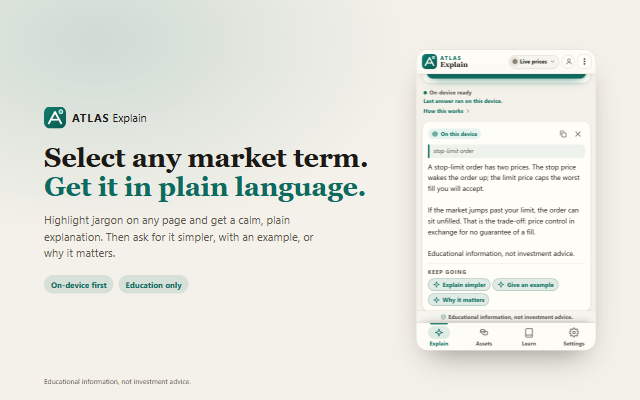
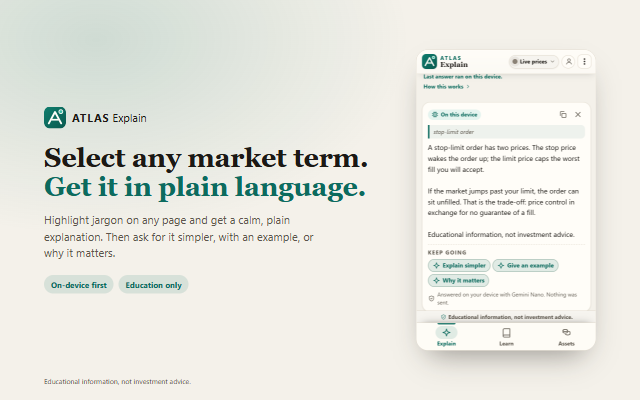
docs: redo the store images, popup shots and demo script for the new layout
The store listing images (store/*.png) and the popup and side-panel
shots (public/shots, store/src/shots) are regenerated from the current
build: three tabs, the shared Explain panel, live prices with their
source. DEMO.md now follows the public product (web app on one page,
three-tab extension) with the private ATLAS desk as an optional
segment, and says the web app tries Gemini Nano first too. SUBMISSION.md
names the one back end and one Explain panel.

The README stills in docs/screenshots still predate the new layout and
are marked as such in DEMO.md.

diff --git a/docs/DEMO.md b/docs/DEMO.md
@@ -2,7 +2,7 @@
 
 About three minutes. A real on-device recording has to be made on the presenter's laptop in Chrome (139 or newer) with Gemini Nano available. This repository can script the shots and host the app; it cannot produce the Nano badge from a cloud or remote session.
 
-Every screen below is in the shipped build. Nothing is mocked. Education only: never say buy, sell, or "signal to trade."
+Every screen below is in the shipped build (last checked against it on 15 Nov 2026). Nothing is mocked. Education only: never say buy, sell, or "signal to trade."
 
 ## Why this has to be recorded on the laptop
 
@@ -22,9 +22,9 @@ If Nano is missing, the badge will honestly say **Cloud**. Do not edit the badge
    - If the result is `unavailable`, stop and fix Chrome; do not record the on-device segment.
 2. `npm run build:extension`, then load `extension/dist` unpacked in `chrome://extensions` (Developer mode).
 3. Open the welcome page: https://atlas-explain.web.app/welcome (it also opens by itself on first install; static practice text, no prices, no account).
-4. For the desk segment: start the private ATLAS desk at `http://localhost:3000/markets` with the usual deploy script. Without it, skip shots 1-3 and use the deep-link fallback in shot 1b.
-5. For the "ATLAS connected" header: either use the loaded extension on a loopback page, or open a local Explain preview at `http://localhost:4173/` (not `127.0.0.1`, if the preview bound only to localhost). Dismiss any first-run onboarding (`.ob-skip`) so the header pill is visible.
-6. For the hosted header: open https://atlas-explain.web.app in a clean tab. The pill reads "Live prices"; the web app never calls localhost, and the ATLAS-only parts are hidden.
+4. Optional, for the desk segment only: start the private ATLAS desk at `http://localhost:3000/markets` with the usual deploy script. Without it, skip shots A1 to A3.
+5. For the "ATLAS connected" header (desk segment only): use the loaded extension on a loopback page, or open a local preview at `http://localhost:4173/app` (not `127.0.0.1`, if the preview bound only to localhost). Dismiss the first-run steps (the **Skip** button) so the header pill is visible.
+6. For the hosted header: open https://atlas-explain.web.app/app in a clean tab and dismiss the first-run steps. The pill reads "Live prices"; the web app never calls localhost, and the ATLAS-only parts are hidden. If a cloud answer says the security check could not confirm this browser, reload once; App Check blocks automated browsers, so record in your normal Chrome.
 7. Close password managers, email, vault windows, and any ATLAS panel that could show balances, keys, or account numbers.
 8. Turn off the App Check debug token overlay if it is visible. Do not show `.env`, DevTools with secrets, or Credential Manager.
 
@@ -37,35 +37,44 @@ Keyboard shortcuts in the shipped extension (see `extension/manifest.json`):
 
 Times are a guide. Keep the total near three minutes. If a shot fails, retake that shot; do not leave a wrong header or a cloud badge in the on-device segment.
 
+The story is the public product: one web page and a three-tab extension, both explaining on the device first and in the cloud only when they must. The private ATLAS desk is an optional extra (shots A1 to A3 below); the demo works without it.
+
 | Shot | Time | Where | Do | Must be visible | Say |
 | --- | --- | --- | --- | --- | --- |
-| 1 | 0:00-0:10 | `http://localhost:3000/markets` | Select one market (for example BTCUSDT). | Markets desk, paper-only chrome, no account balances. | "ATLAS is my private paper-only research desk. It never places orders." |
-| 2 | 0:10-0:22 | Same tab | Click **Explain this move** on the quote bar (or an Explain chip on a chart layer or Signal15 row). | A new tab or wallet opening `atlas-explain.web.app` with a public card. | "The desk sends a public move card only: symbol, percent move, volume. No balances, no account, no positions." |
-| 3 | 0:22-0:28 | Explain wallet | Show the card loaded, model not yet run. Point at the **On-device ⇄ Cloud** strip. | Header pill, the strip reading **Gemini Nano ready**, card fields, **Explain the move** still idle. | "Before anything is sent, the strip shows Gemini Nano is ready on this device. Loading a card never runs the model by itself. I click." |
-| 4 | 0:28-0:50 | Same wallet | Click **Explain the move**. Wait for the answer. | Badge **On-device / Gemini Nano** from `inferenceSource`. If it says Cloud, stop and retake after Nano is ready. | "Firebase AI Logic tries Gemini Nano on this device first, and Gemini in the cloud only if Nano is not ready. The badge is the SDK's own inferenceSource." |
-| 5 | 0:50-1:10 | Scroll the answer | Point at three reasons on each side and "what would change." | Both-sided reasons, no trade instruction. | "Two sides on purpose: why some readers see a dip worth studying, why others see more risk. Never an instruction." |
-| 1b | (fallback) | `https://atlas-explain.web.app/#concept=shadow` or a sample card | Use this only if the desk cannot be shown. | Glossary or sample card, **Live prices** pill on the hosted origin. | "Without the desk, a deep link or a sample card loads the same public envelope." |
-| 6 | 1:10-1:18 | Practice page | Highlight "RSI(14) crossed above 70 while price tagged the upper Bollinger Band". | Practice page only; no prices, no account. | "Now any trading or charting page. I highlight one sentence." |
-| 7 | 1:18-1:28 | Same page | Right-click -> **Explain with ATLAS Explain**, or press `Alt+Shift+X`. | Popup or wallet, source labeled from the site name. | "Only the highlighted text, the title, and the site name leave the page. The account panel next to it is never read." |
-| 8 | 1:28-1:45 | Wallet answer | Let the answer finish, then tap **Explain simpler** under **Keep going**. | Badge, "Charting site" (or equivalent) source line, the follow-up chips and any **Related** glossary chips. | "The card says where it came from and which model answered. One tap asks for a simpler version, still on the device." |
-| 9 | 1:45-1:58 | Practice page | Highlight "Stop-limit order" in the ticket help, explain again. | Same flow on a broker-style term, still no account fields. | "Same flow on a broker-style term." |
-| 10 | 1:58-2:08 | Explain tab -> **Recent** | Open a previous item. | Recent list, no network spinner for the reopen. | "Recent explanations stay on this device. Tapping one reopens it without another model call." |
-| 11 | 2:08-2:20 | Glossary -> **Learn path** -> **Got it** | Advance one step. | Glossary copy, progress on device. | "A short path through every term, progress kept on the device." |
-| 12 | 2:20-2:32 | Hosted app tab | Show the header pill. | Pill text **Live prices**. | "The hosted web app never calls localhost. That is an honest header, not a failed connection." |
-| 13 | 2:32-2:45 | Extension or local preview with ATLAS running | Show the header pill after a real probe. | Pill text **ATLAS connected** (or **ATLAS desk** if this tab is Markets). | "On this computer, the connectors library talks to ATLAS over public MCP, with a REST fallback, and the header says ATLAS local only when a probe answers." |
-| 14 | 2:45-2:52 | Signal tab | Open **Why this colour?** | Grey light unless a model has cleared the evidence gate. Today that is usually grey. | "The light stays grey until a model clears the evidence gate. Grey is the honest answer." |
-| 15 | 2:52-3:00 | Menu → Settings, and the disclaimer | Open the menu (top right), choose Settings, and show the plan card and the footer line. | "Free during the hackathon. Billing is built in and switched off." Educational disclaimer visible. | "Educational information, not investment advice." |
+| 1 | 0:00-0:12 | https://atlas-explain.web.app (clean tab, desktop) | Open the home page, then click **Try it in your browser**. | Home page, then the web app on one page: **Explain** at the top, links to Today, Learn and Assets in the header, pill **Live prices**. | "ATLAS Explain turns market jargon into plain language. Here is the web app: one page, Explain first." |
+| 2 | 0:12-0:30 | Web app, Explain | Click the example **Bid-ask spread**. Wait for the answer. | A badge that says where it ran (**On this device** when Nano is ready, **Cloud** when it is not; the web app tries Nano first too), two sides, **Keep going** chips, the line saying where it ran and the education line. | "The web app tries Gemini Nano on this device first. On a phone, or a computer without it, the answer comes from Gemini in the cloud, and the badge says which one ran. Two sides, never an instruction." |
+| 3 | 0:30-0:40 | Practice page, https://atlas-explain.web.app/welcome | Highlight "RSI(14) crossed above 70 while price tagged the upper Bollinger Band". | Practice page only; no prices, no account. | "Now the extension, on any page. I highlight one sentence." |
+| 4 | 0:40-0:52 | Same page | Press `Alt+Shift+X`, or right-click and choose **Explain with ATLAS**. (`Alt+Shift+E` opens the popup without explaining.) | Popup opening, the strip reading **On-device ready**, then the answer. | "Only the highlighted text, the page title and the site name leave the page. Nothing else on the page is read." |
+| 5 | 0:52-1:15 | Popup answer | Let the answer finish. Point at the badge and the source line. | Badge **On this device**, the line "Answered on your device with Gemini Nano. Nothing was sent.", a source line such as "Charting site". If it says Cloud, stop and retake after Nano is ready. | "Firebase AI Logic tries Gemini Nano on this device first, and Gemini in the cloud only if Nano is not ready. The badge is the SDK's own inferenceSource." |
+| 6 | 1:15-1:30 | Same answer | Tap **Explain simpler** under **Keep going**. | The follow-up chips and any **Related** glossary chips; the answer refreshes. | "One tap asks for a simpler version, still on the device." |
+| 7 | 1:30-1:42 | Practice page | Highlight "Stop-limit order" in the ticket help, explain again. | Same flow on a broker-style term, still no account fields. | "Same flow on a broker-style term." |
+| 8 | 1:42-1:52 | Popup, Explain tab | Scroll to **Recent** and open a previous item. | Recent list with a small remove button on each row; no spinner on reopen. | "Recent explanations stay on this device. Tapping one reopens it without another model call." |
+| 9 | 1:52-2:05 | Popup, **Learn** tab | Open a term, then **Got it** on the learn path. | Glossary copy, progress kept on the device. | "A short path through every term, progress kept on the device." |
+| 10 | 2:05-2:20 | Popup, **Assets** tab | Show Bitcoin and one stock. | Crypto with **Live** and **CoinGecko** and a price; stocks with official SEC figures and "Price not shown" with the reason. | "Every number names its source. Where a price is not licensed for public display, it says so instead of making one up." |
+| 11 | 2:20-2:35 | Web app tab | Click the logo, then **Learn**, then **Assets** in the header. | The one page scrolling between sections; header pill **Live prices**. | "The web app is one page. The hosted app never calls localhost, so the pill honestly says Live prices." |
+| 12 | 2:35-2:50 | Popup, menu (top right) | Open the menu, choose **Settings**. | The plan card ("Everything is included"), appearance, how answers are made. | "Settings open from the menu. Free during the hackathon; billing is built in and switched off." |
+| 13 | 2:50-3:00 | Any screen | Hold on the footer. | "Educational information, not investment advice." | "Educational information, not investment advice." |
+
+### Optional ATLAS desk segment (skip if the desk is not running)
+
+Only for a presenter who runs the private desk at `http://localhost:3000/markets`. Never show balances or accounts. Without the desk, skip A1 to A3.
+
+| Shot | Time | Where | Do | Must be visible | Say |
+| --- | --- | --- | --- | --- | --- |
+| A1 | +0:10 | `http://localhost:3000/markets` | Select one market (for example BTCUSDT). | Markets desk, paper-only chrome, no account balances. | "ATLAS is my private paper-only research desk. It never places orders." |
+| A2 | +0:12 | Same tab | Click **Explain this move** on the quote bar. | A new tab opening `atlas-explain.web.app` with a public card, not yet run. | "The desk sends a public move card only: symbol, percent move, volume. No balances, no account, no positions. Loading a card never runs the model by itself." |
+| A3 | +0:15 | Extension or local preview with ATLAS running | Show the header pill after a real probe, then the **Signal** tab and **Why this colour?** | Pill **ATLAS connected** (or **ATLAS desk** on the Markets tab); a grey light unless a model has cleared the evidence gate. | "On this computer the pill says ATLAS connected only when a probe answers. The light stays grey until a model clears the evidence gate. Grey is the honest answer." |
 
 ## Desktop opening frame
 
-On a desktop browser, https://atlas-explain.web.app now opens with the hybrid story beside the live wallet: the three-step route (your highlight, Gemini Nano on this device, Gemini in the cloud through Firebase AI Logic) and links to the extension and source. It is a good first frame for judges. Phones still get the full-screen wallet.
+https://atlas-explain.web.app opens with the extension-first home page: select any market term, the three-step route (your highlight, Gemini Nano on this device, Gemini in the cloud through Firebase AI Logic), the install steps, and links to the web app and the source. It is a good first frame for judges.
 
 ## Still frames for the README
 
-Captured stills already in `docs/screenshots/`:
+Captured stills already in `docs/screenshots/` (these predate the one-page web app and the three-tab popup; the store images in `store/` and the popup shots in `public/shots/` were regenerated on 15 Nov 2026):
 
-- `hosted-header.png` — hosted web app, pill **Live prices** (retake: the current still shows the earlier "Hosted app" label)
-- `local-header.png` — local loopback build, pill **ATLAS connected**, after dismissing onboarding (retake: the current still shows "ATLAS local")
+- `hosted-header.png` — hosted web app, pill **Live prices** (retake: it predates the one-page layout and the header links)
+- `local-header.png` — local loopback build, pill **ATLAS connected**, after dismissing onboarding (retake: it predates the one-page layout and shows "ATLAS local")
 - `desk-explain-link.png` — Markets desk with **Explain this move** and **Concepts**
 - `local-full.png` — Explain a move plus today's brief on a local build
 - `hosted-full.png` — hosted app, today's digest not ready

diff --git a/docs/SUBMISSION.md b/docs/SUBMISSION.md
@@ -19,6 +19,7 @@ The write-up and demo should match the app as it ships today: a public hybrid ex
 
 Keep this list in the Devpost description so the submission matches the tree:
 
+- **One product, two surfaces.** A web app on one page (Explain, Today, Learn, Assets) and a three-tab Chrome extension (Explain, Learn, Assets) share one back end (`src/platform/web/explain-service.ts`: settings, limits, the model call) and one Explain panel (`src/wallet/explain-panel.ts`), so both explain the same way, on the device first.
 - **Hybrid inference.** Chrome tries Gemini Nano on the device first (`PREFER_ON_DEVICE`). The badge is `response.inferenceSource`, not a guessed label.
 - **Connectors library.** `src/connectors/` (documented in [connectors/README.md](connectors/README.md)) is this repo's path, separate from the private ATLAS desk. The ATLAS-local connector prefers `POST /api/mcp/public` and falls back to `GET /api/explain/assets`.
 - **Honest header states.** The pill is one of: `Live prices` (the public price feed answered; https://atlas-explain.web.app never calls localhost), `ATLAS connected` (a loopback or extension probe actually answered), `ATLAS desk` (this tab is the Markets desk) or `Offline`. With nothing to report it is hidden. It does not fake a connection, and ATLAS-only parts stay hidden for everyone without ATLAS.
